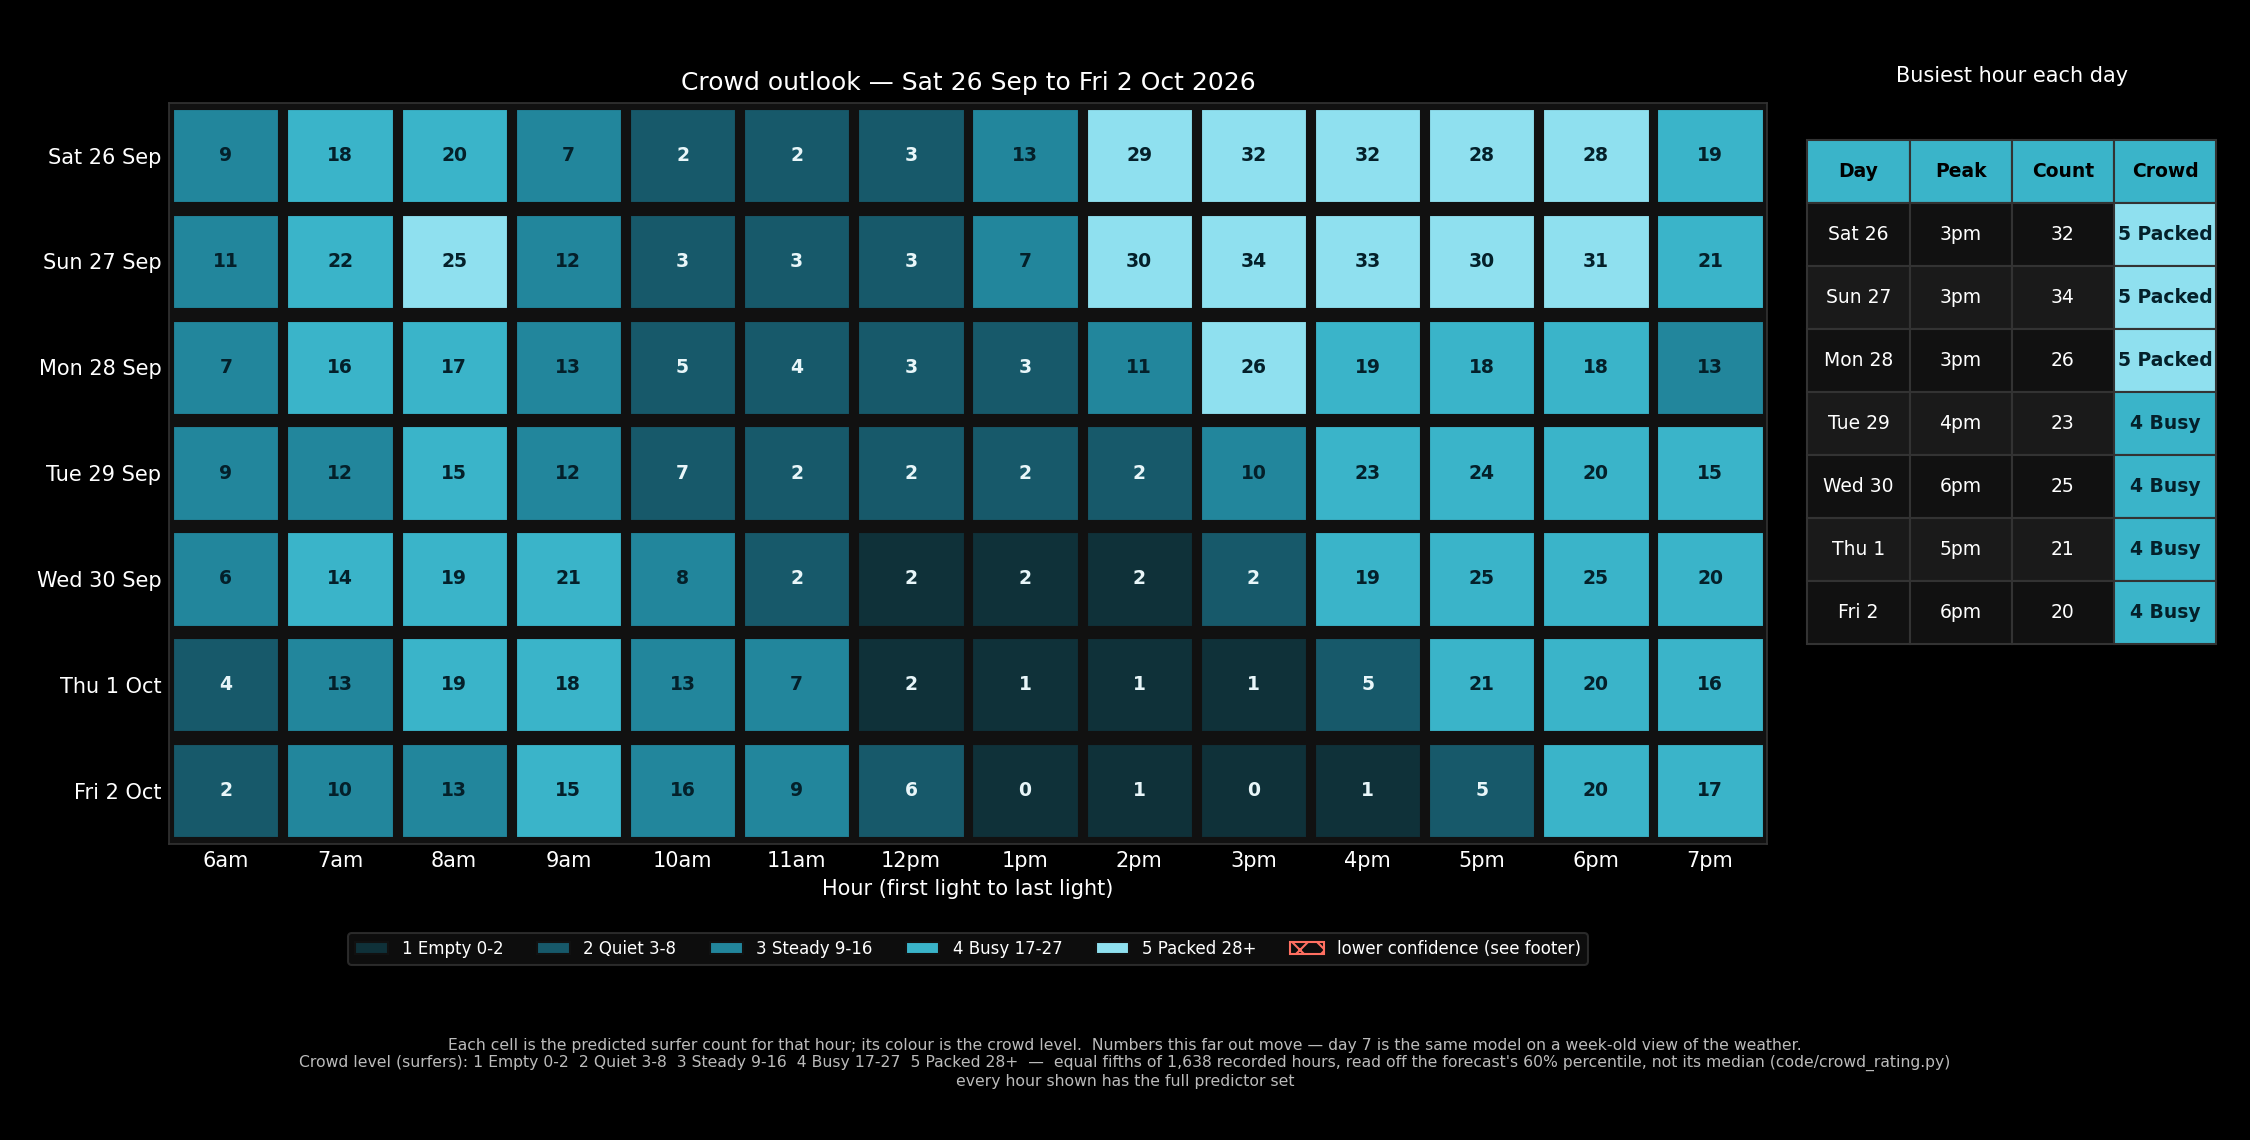
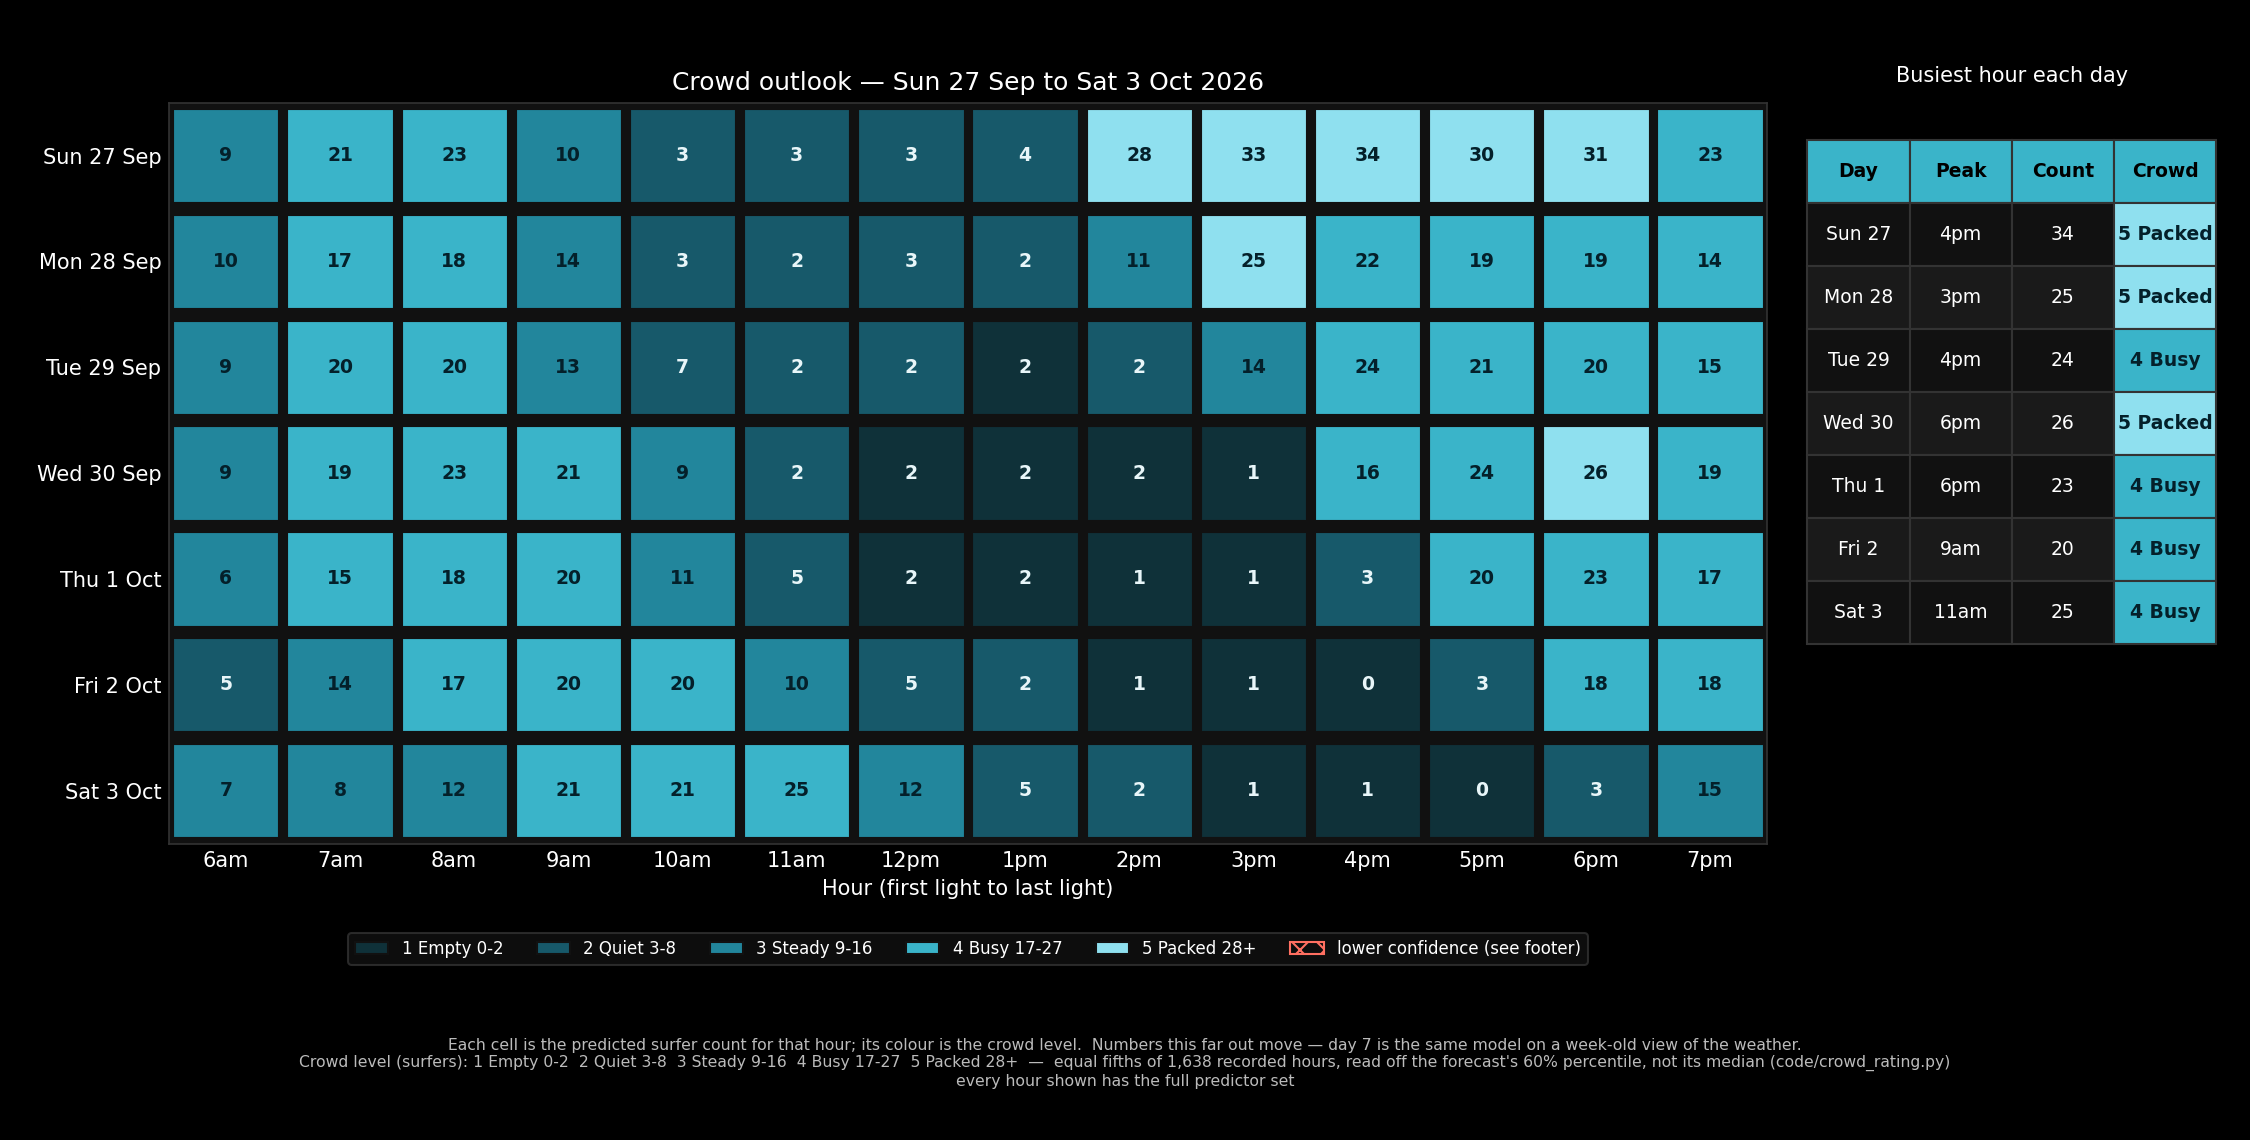
Automated: update daily surfer count chart (2026-09-26)

diff --git a/README.md b/README.md
@@ -24,17 +24,17 @@ This project collects images from a shoreline video camera and tries to answer t
      The headings and image links are assembled in update_readme() itself.
      ==================================================================== -->
 <!-- DAILY_CHART_START -->
-#### A Full Day of Surfer Detections: Friday, September 25, 2026
+#### A Full Day of Surfer Detections: Saturday, September 26, 2026
 
 Each green box below contains a surfer, according to the object detection model.  Look carefully and you may find additional surfers that the model missed or other objects which are misclassified as surfers - like the wind sock at the bottom center of the photo.  Birds, reflections, people on the beach and sun glare fool it too: [what isn't a surfer](docs/non_surfer_objects.md) catalogs each one, how to tell it apart, and what the pipeline does about it.  **Each hour is shown twice: first the bare frame, so you can hunt for the surfers yourself as small dark specks, then the same frame with the model's boxes drawn.**  Try it before the boxes appear - it shows how hard these are to see, which is the whole problem the model is solving.  Each frame shows the camera's full width, the same strip the pipeline counts, so the number printed is the whole count for that hour.
-![Detections through Friday, September 25, 2026](data/charts/latest_detection.gif)
+![Detections through Saturday, September 26, 2026](data/charts/latest_detection.gif)
 
-#### The Surfer Crowd Forecast for: Saturday, September 26, 2026
+#### The Surfer Crowd Forecast for: Sunday, September 27, 2026
 
 Once enough hours and days were gathered along with weather and surf conditions, a surf count prediction model was built to forecast how many surfers would be present at each hour for the coming day.  This is useful for surfers to plan to avoid busy times or at least know what to expect.  The forecast still runs about one surfer low on average, and it misses by about five surfers in a typical hour - crowds depend on plenty of things the weather and surf data never see.  The detector underneath it used to undercount badly in fog and glare, which made the forecast worse; that was fixed in September 2026 by labeling those conditions and retraining, so what remains is the prediction model's own error.  The right-hand column rates each hour from 1 (near-empty) to 5 (packed), using the five equal slices of every hour the camera has counted so far.  [How to Read This Chart](#how-to-read-the-daily-chart)
 ![Latest daily prediction chart](data/charts/latest.png)
 
-#### The Week Ahead: September 26 - October 02, 2026
+#### The Week Ahead: September 27 - October 03, 2026
 
 The same model, run out to a week. Every hour gets a crowd level from 1 (near-empty) to 5 (packed); the levels are the five equal slices of every hour the camera has counted so far, so level 3 is literally an average hour and level 5 is the busiest fifth of them. The number in each cell is the predicted count, and the colour is the level. The level is not read off that number: the forecast pulls toward the middle, so the middle of its range under-calls busy hours, and the level comes from a point higher up the range that was measured to catch them. Surf and weather data run the full seven days, but a forecast seven days out is still a forecast seven days out - read the far right of the grid as a shape, not a number.
 ![Crowd outlook for the week ahead](data/charts/latest_week.png)
